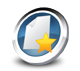
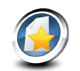
changed ToolBarIcons

diff --git a/src/org/bh/gui/swing/BHToolBar.java b/src/org/bh/gui/swing/BHToolBar.java
@@ -44,12 +44,12 @@ public class BHToolBar extends JToolBar{
 		addSeparator();
 		
 		add( new BHToolButton(PlatformKey.TOOLBARADDPRO, "BnewProject"));
-		add( new BHToolButton(PlatformKey.TOOLBARADDS, "BnewScenario2"));
-		add( new BHToolButton(PlatformKey.TOOLBARADDPER, "BnewPeriod2"));
+		add( new BHToolButton(PlatformKey.TOOLBARADDS, "BnewScenario"));
+		add( new BHToolButton(PlatformKey.TOOLBARADDPER, "BnewPeriod"));
 		
 		addSeparator();
 		
-		add( new BHToolButton(PlatformKey.TOOLBARREMOVE, "BdeleteScenario2"));
+		add( new BHToolButton(PlatformKey.TOOLBARREMOVE, "Bdelete"));
 		
 		add( new BHButton(PlatformKey.TOOLBARREMOVE, true) );
 		
